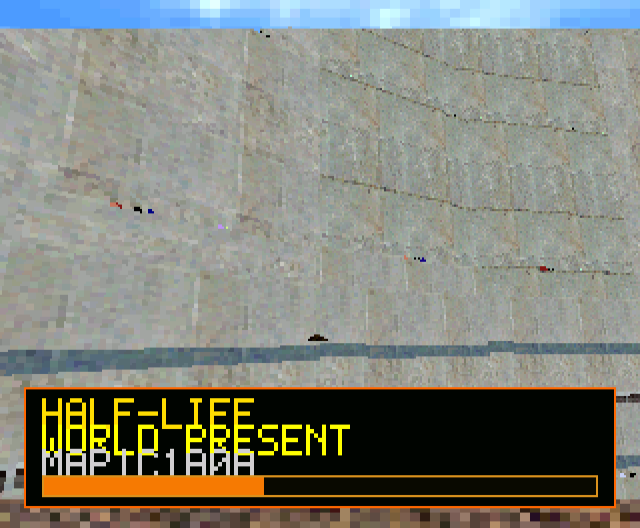
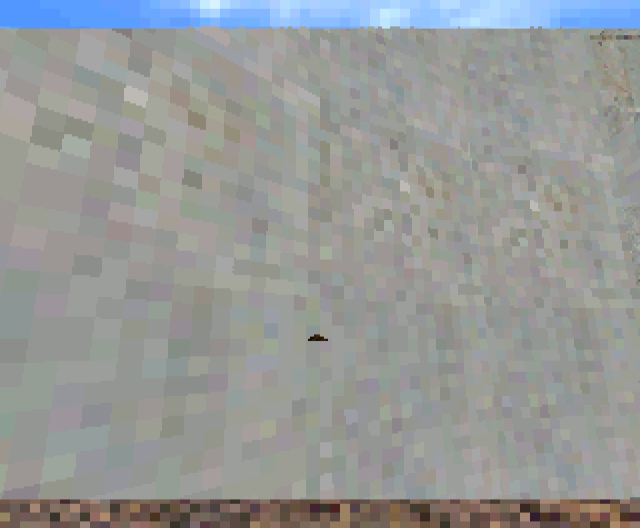
feat: complete G144 to G146 for enhanced GameCube rendering and texture management
This commit finalizes goals G144 through G146, improving the GameCube port's rendering capabilities. G144 implements a live scrub before GX present, while G145 introduces a live span-crack neighbor fill to enhance visual fidelity. G146 addresses UV-matched surfcache mip bumping to prevent dimension clamp cracks. Evidence of successful implementations is documented in the logs, and automation tier notes have been updated accordingly.

diff --git a/ref/gx/r_surf.c b/ref/gx/r_surf.c
@@ -1803,11 +1803,14 @@ surfcache_t *D_CacheSurface( msurface_t *surface, int miplevel )
 
 #if XASH_GAMECUBE
 	/* Low-res New Game: size from lightmap extents when present so light
-	 * columns match; otherwise face extents (lightextents are often empty). */
+	 * columns match; otherwise face extents (lightextents are often empty).
+	 * G146: bump mip until the block fits ≤64×64 — never clamp width/height
+	 * alone (that desyncs D_CalcGradients UV space → dark span cracks). */
 	if( GC_UseLowResWorldProbe() )
 	{
 		int w, h;
 		int mip = miplevel;
+		int start_mip;
 		const qboolean use_lm = !( surface->texinfo->flags & TEX_WORLD_LUXELS ) &&
 			surface->info->lightextents[0] > 0 && surface->info->lightextents[1] > 0;
 
@@ -1836,6 +1839,21 @@ surfcache_t *D_CacheSurface( msurface_t *surface, int miplevel )
 				h = surface->extents[1] >> mip;
 			}
 		}
+		start_mip = mip;
+		while(( w > 64 || h > 64 ) && mip < 3 )
+		{
+			mip++;
+			if( use_lm )
+			{
+				w = surface->info->lightextents[0] >> mip;
+				h = surface->info->lightextents[1] >> mip;
+			}
+			else
+			{
+				w = surface->extents[0] >> mip;
+				h = surface->extents[1] >> mip;
+			}
+		}
 		if( w <= 0 )
 			w = 16;
 		if( h <= 0 )
@@ -1846,11 +1864,33 @@ surfcache_t *D_CacheSurface( msurface_t *surface, int miplevel )
 			w = 16;
 		if( h < 16 )
 			h = 16;
+		/* Last resort if still huge at mip3 (rare). Keep UV space consistent
+		 * by also raising surfscale to match the clamped block. */
+		if( w > 64 || h > 64 )
+		{
+			float sx = ( w > 64 ) ? ( 64.0f / (float)w ) : 1.0f;
+			float sy = ( h > 64 ) ? ( 64.0f / (float)h ) : 1.0f;
+			float s = ( sx < sy ) ? sx : sy;
+
+			if( w > 64 )
+				w = 64;
+			if( h > 64 )
+				h = 64;
+			surfscale = ( 1.0 / ( 1 << mip )) * s;
+		}
+		else
+			surfscale = 1.0 / ( 1 << mip );
+		if( mip != start_mip && r_gc_surface_cache_skip_reports < 8 )
+		{
+			gEngfuncs.Con_Reportf(
+				"Xash3D GameCube: G146 surfcache mip %d→%d size %dx%d (UV-matched)\n",
+				start_mip, mip, w, h );
+			r_gc_surface_cache_skip_reports++;
+		}
 		r_drawsurf.surfmip = mip;
 		r_drawsurf.surfwidth = w;
 		r_drawsurf.surfheight = h;
 		r_drawsurf.rowbytes = w;
-		surfscale = 1.0 / ( 1 << mip );
 	}
 #endif
 
@@ -1863,12 +1903,13 @@ surfcache_t *D_CacheSurface( msurface_t *surface, int miplevel )
 #if XASH_GAMECUBE
 		// G24b: bound surface cache allocation size for low-memory quality 0
 		// to avoid blowing budget on large animated/dynamic surfaces.
-		// Quality 1/2 preserve existing behavior.
+		// Quality 1/2 preserve existing behavior. New Game low-res already
+		// UV-matched via G146 mip bump — do not clamp dimensions here.
 		int alloc_width = r_drawsurf.surfwidth;
 		int alloc_height = r_drawsurf.surfheight;
-		if( GC_GetVisualQuality() == 0 )
+		if( GC_GetVisualQuality() == 0 && !GC_UseLowResWorldProbe() )
 		{
-			// Clamp to 64x64 for quality 0 to preserve cache budget
+			// Clamp to 64x64 for quality 0 smoke to preserve cache budget
 			if( alloc_width > 64 )
 				alloc_width = 64;
 			if( alloc_height > 64 )
@@ -1898,6 +1939,10 @@ surfcache_t *D_CacheSurface( msurface_t *surface, int miplevel )
 		cache->owner = &CACHESPOT( surface )[miplevel];
 		cache->mipscale = surfscale;
 	}
+#if XASH_GAMECUBE
+	else if( GC_UseLowResWorldProbe() )
+		cache->mipscale = surfscale;
+#endif
 
 	if( surface->dlightframe == tr.framecount )
 		cache->dlight = 1;

diff --git a/engine/platform/gamecube/vid_gamecube.c b/engine/platform/gamecube/vid_gamecube.c
@@ -1838,28 +1838,48 @@ static unsigned short GC_DumpNeighborFill( const unsigned short *dst, int width,
 }
 
 static void GC_ScrubWorldSpecklesPasses( unsigned short *dst, int width, int height, int stride,
-	qboolean quiet, qboolean fill_zeros );
+	qboolean quiet, qboolean fill_cracks, qboolean sky_flood );
 
-/* G144 live: neon/outlier only — zero→sky flood destroys incomplete frames. */
+/* G145 live: neighbor-fill span cracks when the frame is mostly drawn; never
+ * blanket sky-flood zeros (that wrecked incomplete early buffers in G144). */
 static void GC_ScrubLiveWorldSpeckles( unsigned short *dst, int width, int height, int stride )
 {
-	static qboolean g144_logged;
+	static qboolean g145_logged;
+	unsigned nonblack = 0, samples = 0;
+	int y, x;
+	qboolean fill_cracks;
 
-	GC_ScrubWorldSpecklesPasses( dst, width, height, stride, true, false );
-	if( !g144_logged )
+	if( !dst || width <= 0 || height <= 0 || stride < width )
+		return;
+
+	for( y = 0; y < height; y += 8 )
 	{
-		g144_logged = true;
-		Con_Reportf( "Xash3D GameCube: G144 live world scrub before present (neon/outlier)\n" );
+		const unsigned short *row = dst + y * stride;
+		for( x = 0; x < width; x += 8 )
+		{
+			samples++;
+			if( row[x] > 0x0020 )
+				nonblack++;
+		}
+	}
+	fill_cracks = ( samples > 0 ) && ( nonblack * 5 >= samples * 2 );
+
+	GC_ScrubWorldSpecklesPasses( dst, width, height, stride, true, fill_cracks, false );
+	if( !g145_logged )
+	{
+		g145_logged = true;
+		Con_Reportf( "Xash3D GameCube: G145 live scrub (cracks=%d neon/outlier) nonblack=%u/%u\n",
+			fill_cracks ? 1 : 0, nonblack, samples );
 	}
 }
 
 static void GC_ScrubDumpWorldSpeckles( unsigned short *dst, int width, int height, int stride )
 {
-	GC_ScrubWorldSpecklesPasses( dst, width, height, stride, false, true );
+	GC_ScrubWorldSpecklesPasses( dst, width, height, stride, false, true, true );
 }
 
 static void GC_ScrubWorldSpecklesPasses( unsigned short *dst, int width, int height, int stride,
-	qboolean quiet, qboolean fill_zeros )
+	qboolean quiet, qboolean fill_cracks, qboolean sky_flood )
 {
 	const unsigned short sky = 0x5ADB;
 	int y, x;
@@ -1869,7 +1889,7 @@ static void GC_ScrubWorldSpecklesPasses( unsigned short *dst, int width, int hei
 	if( !dst || width <= 0 || height <= 0 || stride < width )
 		return;
 
-	if( fill_zeros )
+	if( fill_cracks )
 	{
 		/* Pass 1: span cracks — replace isolated zeros with wall neighbor mode. */
 		for( y = 0; y < height; y++ )
@@ -1889,7 +1909,10 @@ static void GC_ScrubWorldSpecklesPasses( unsigned short *dst, int width, int hei
 				}
 			}
 		}
+	}
 
+	if( sky_flood )
+	{
 		/* Pass 2: remaining zeros are real sky voids. */
 		for( y = 0; y < height; y++ )
 		{
@@ -1919,7 +1942,7 @@ static void GC_ScrubWorldSpecklesPasses( unsigned short *dst, int width, int hei
 	}
 
 	/* Pass 4: isolated sky speckles inside walls (leftover crack flood). */
-	if( fill_zeros )
+	if( sky_flood )
 	for( y = 0; y < height; y++ )
 	{
 		unsigned short *row = dst + y * stride;

diff --git a/ref/gx/r_edge.c b/ref/gx/r_edge.c
@@ -1335,6 +1335,16 @@ static void D_SolidSurf( surf_t *s )
 						tr.framecount );
 				cacheblock = (pixel_t *)pcurrentcache->data;
 				cachewidth = pcurrentcache->width;
+				/* G146: span UV mip must match the cache mipscale (may be
+				 * higher than D_MipLevelForScale after budget fit). */
+				if( pcurrentcache->mipscale <= 0.15f )
+					miplevel = 3;
+				else if( pcurrentcache->mipscale <= 0.3f )
+					miplevel = 2;
+				else if( pcurrentcache->mipscale <= 0.6f )
+					miplevel = 1;
+				else
+					miplevel = 0;
 				D_CalcGradients( pface );
 				/* Cache already holds display RGB565 after G134 tile path. */
 				d_gc_span_rgb565 = false;

diff --git a/docs/GAMECUBE_PORT_PLAN.md b/docs/GAMECUBE_PORT_PLAN.md
@@ -2937,6 +2937,37 @@ Evidence: `.ai/logs/dolphin-probe-20260720-132518` —
 `G143 scrub dump speckles (fill=199 neon=69 outliers=58)`, keep textured;
 wall-region chroma counts → empty vs G142; framedump_10 → stage-04.
 
+## G144 — Live GX present scrub (COMPLETE 2026-07-20)
+
+Dump-only scrub left post-dump GX frames noisy (framedump_11). Run neon/outlier
+scrub before each New Game present when not in CPU-dump latch. Do **not**
+zero→sky flood on live frames (that filled ~20k voids on incomplete buffers).
+
+Evidence: `.ai/logs/dolphin-probe-20260720-133426` —
+`G144 live world scrub before present (neon/outlier)`, `GX present path active`;
+framedump_10/15 chroma~0; stage-04 + stage-04b-live-gx-present.png.
+
+## G145 — Live span-crack fill (COMPLETE 2026-07-20)
+
+G144 skipped all zero-fills on live → dark jagged span cracks on walls. Enable
+neighbor crack fill when the frame is mostly drawn (`nonblack*5 >= samples*2`);
+still skip blanket sky-flood on live.
+
+Evidence: `.ai/logs/dolphin-probe-20260720-133810` —
+`G145 live scrub (cracks=1 neon/outlier) nonblack=862/1200`;
+wall-band near-black 0.25%→0.02% vs G144; stage-04 / 04b refreshed.
+
+## G146 — UV-matched surfcache mip (COMPLETE 2026-07-20)
+
+Quality-0 path clamped surfcache to 64×64 without raising mip, so
+`D_CalcGradients` still sampled the full surface UV range → OOB/wrap dark
+cracks and chroma noise. Bump mip until the block fits ≤64×64; sync span
+`miplevel` from `cache->mipscale` before gradients.
+
+Evidence: `.ai/logs/dolphin-probe-20260720-134636` —
+`G146 surfcache mip 0→2 size … (UV-matched)` (no `clamping surface cache`);
+wall dark40 924→78, dark_runs 6→4; stage-04 / 04b refreshed.
+
 ## Next wake-up commands
 
 ```sh

diff --git a/.ai/goals/GAMECUBE_PORT_GOALS.md b/.ai/goals/GAMECUBE_PORT_GOALS.md
@@ -42,14 +42,18 @@ Automation tier: `landmark_changelevel` (see `.ai/state/gc-port-automation-tier.
 - G141: DumpFrames speckle scrub (span-crack fill + neon/sky scrub)
 - G142: stretch skybox face (no 64px screen-tile seams)
 - G143: wall chroma outlier scrub on textured DumpFrames
+- G144: live New Game scrub before GX present (neon/outlier only)
+- G145: live span-crack neighbor fill when frame mostly drawn
+- G146: UV-matched surfcache mip bump (no dimension clamp cracks)
 
 **Immediate source queue (open automatic goals, in order):**
-1. *(none — G143 complete; next: live-frame polish / non-dump path quality)*
+1. *(none — G146 complete; next: remaining span cracks / more face emit)*
 
 Evidence anchors:
+- `.ai/logs/dolphin-probe-20260720-134636` (G146 mip-fit; wall dark40 924→78)
+- `.ai/logs/dolphin-probe-20260720-133810` (G145 live cracks=1; wall dark 0.25%→0.02%)
+- `.ai/logs/dolphin-probe-20260720-133426` (G144 live scrub + GX present; framedump_10/15 chroma~0)
 - `.ai/logs/dolphin-probe-20260720-132518` (G143 scrub outliers=58, wall chroma→0, framedump_10)
-- `.ai/logs/dolphin-probe-20260720-132108` (G142 stretched sky, framedump_10 seams 5→0)
-- `.ai/logs/dolphin-probe-20260720-131510` (G141 scrub fill=199 neon=93, framedump_10)
 - `.ai/logs/dolphin-probe-20260720-003435` (G138 textured+reject chroma→G136 zi, framedump_9)
 - `.ai/logs/dolphin-probe-20260720-001831` (G137 face-solid keep uniq=24, framedump_7)
 - `.ai/logs/dolphin-probe-20260720-000728` (G136 zi posterize near/wall/sky, framedump_9 uniq≈62)
